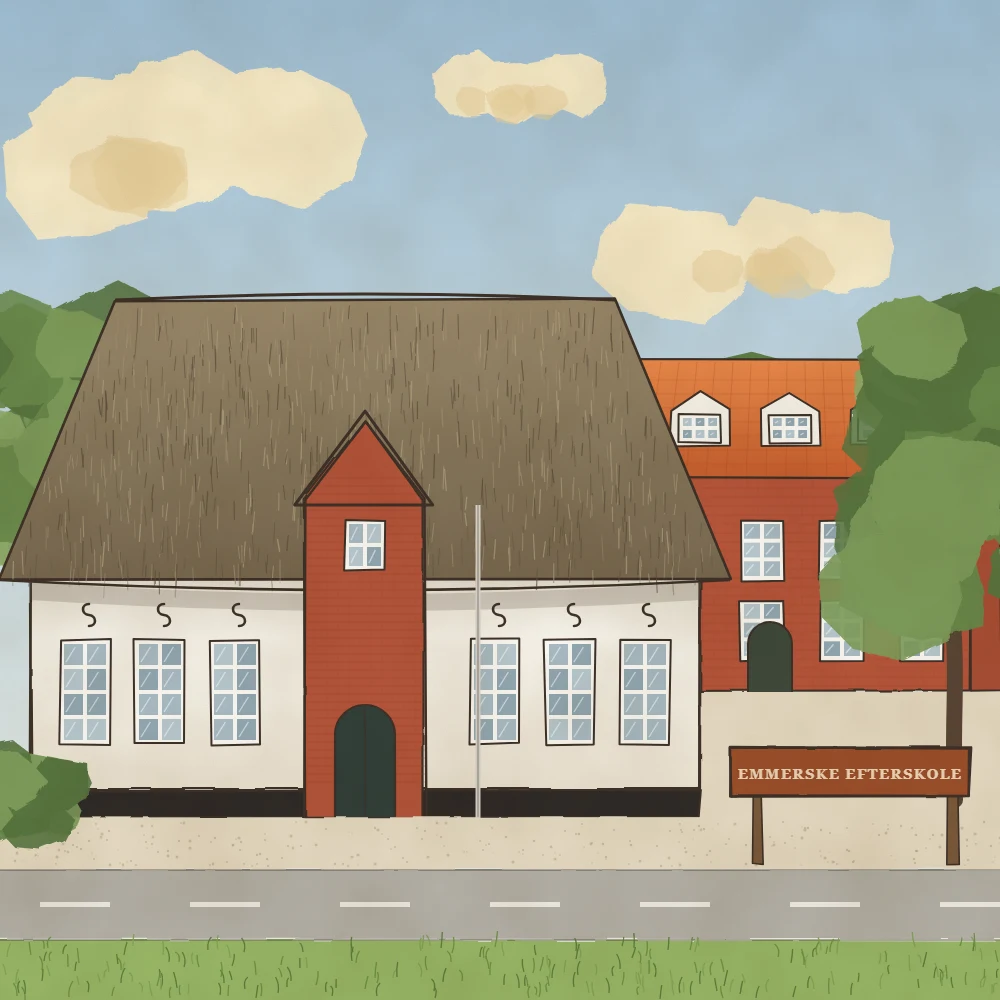
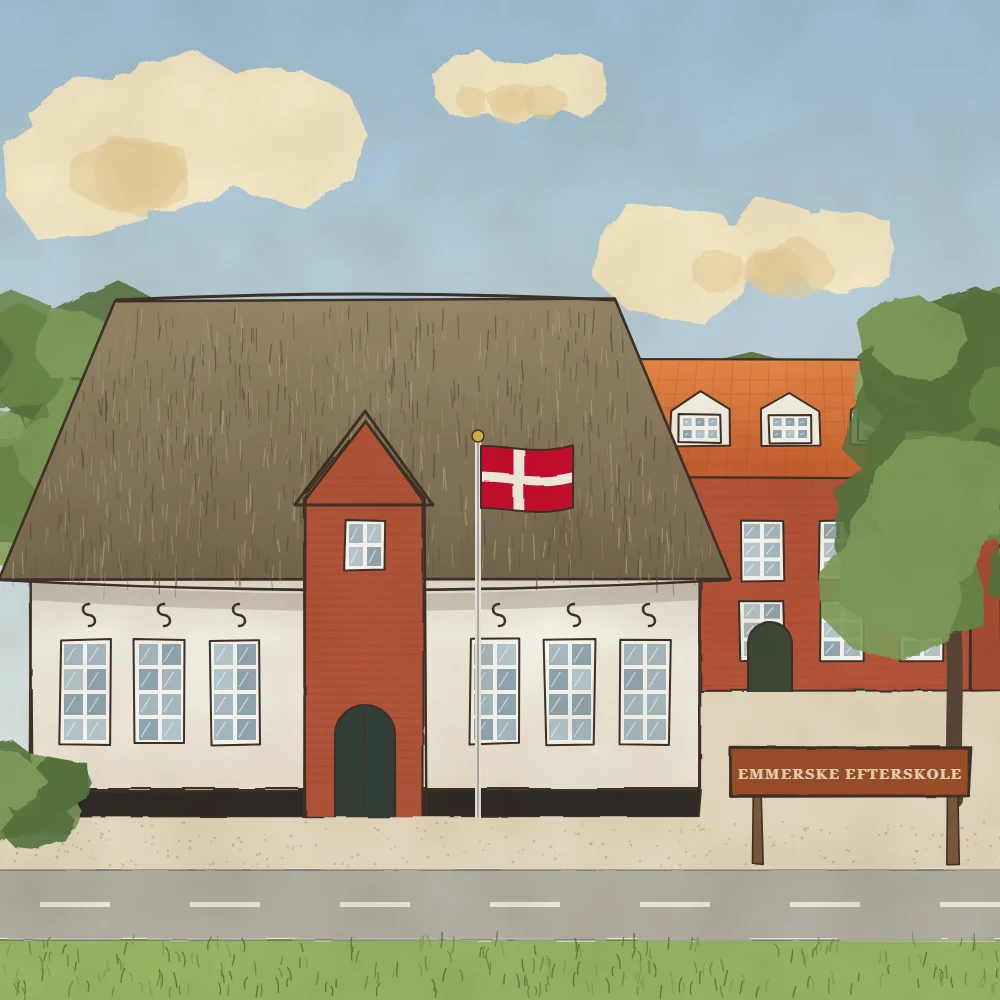
Dannebrog på flagstangen og billedtekst "Emmerske Efterskole"

Changed region(s): [[0.465, 0.434, 0.589, 0.527]]

diff --git a/index.html b/index.html
@@ -90,8 +90,8 @@
       </div>
     </div>
     <figure class="polaroid">
-      <img src="assets/img/forside.webp" alt="Tegning af Emmerske Efterskole set fra Aabenraavej: det hvidkalkede, stråtækte Emmerske Bedehus forrest og skolens røde murstensbygning bagved" width="1000" height="1000">
-      <figcaption>Emmerske Bedehus · porten til Tønder</figcaption>
+      <img src="assets/img/forside.webp" alt="Tegning af Emmerske Efterskole set fra Aabenraavej: det hvidkalkede, stråtækte Emmerske Bedehus forrest og skolens røde murstensbygning bagved; Dannebrog vajer på flagstangen" width="1000" height="1000">
+      <figcaption>Emmerske Efterskole · porten til Tønder</figcaption>
       <div class="eq" id="heroEq" aria-hidden="true"></div>
     </figure>
   </div>

diff --git a/tools/forside_illustration.py b/tools/forside_illustration.py
@@ -197,8 +197,25 @@ poly([(296, 504), (365, 412), (434, 504)], "none", sw=3)
 window(345, 520, 40, 50, cols=2, rows=2)
 add(f'<path d="M335,818 V735 A30,30 0 0 1 395,735 V818 Z" fill="#33403a" stroke="{INK}" stroke-width="2.2"/>')
 add(f'<path d="M365,708 V818" stroke="{INK}" stroke-width="1.4" opacity=".7"/>')
-# flagstang
-add(f'<path d="M478,820 V505" stroke="#d9d6cf" stroke-width="5"/><path d="M478,820 V505" stroke="{INK}" stroke-width="1" opacity=".5"/>')
+# flagstang med Dannebrog (proportioner 3:1:4,5 x 3:1:3)
+add(f'<path d="M478,820 V440" stroke="#ecebe6" stroke-width="6"/><path d="M478,820 V440" stroke="{INK}" stroke-width="1.2" opacity=".55"/>')
+add(f'<circle cx="478" cy="436" r="6" fill="#d9b44a" stroke="{INK}" stroke-width="1.4"/>')
+FX, FY, FW, FH = 481, 446, 92, 62
+u = FW / 8.5
+def wave(x, y):  # let bølgende flag
+    import math
+    t = (x - FX) / FW
+    return x, y + 7 * math.sin(t * 3.2) * t
+def flagpoly(x0, y0, x1, y1, fill, sw=0):
+    pts = [wave(x0 + (x1 - x0) * k / 8, y0) for k in range(9)] + [wave(x1 - (x1 - x0) * k / 8, y1) for k in range(9)]
+    add(f'<polygon points="{" ".join(f"{x:.1f},{y:.1f}" for x, y in pts)}" fill="{fill}" '
+        f'stroke="{INK}" stroke-width="{sw}" stroke-linejoin="round"/>')
+add('<g filter="url(#wash)">')
+flagpoly(FX, FY, FX + FW, FY + FH, "#c8102e")
+flagpoly(FX + 3 * u, FY, FX + 4 * u, FY + FH, "#f7f3ea")                     # lodret kors
+flagpoly(FX, FY + FH * 3 / 7, FX + FW, FY + FH * 4 / 7, "#f7f3ea")           # vandret kors
+add('</g>')
+flagpoly(FX, FY, FX + FW, FY + FH, "none", sw=2)
 
 # ---------------------------------------------------------------- forgrund: gårdsplads, vej, græs
 add('<g filter="url(#wash)">')
